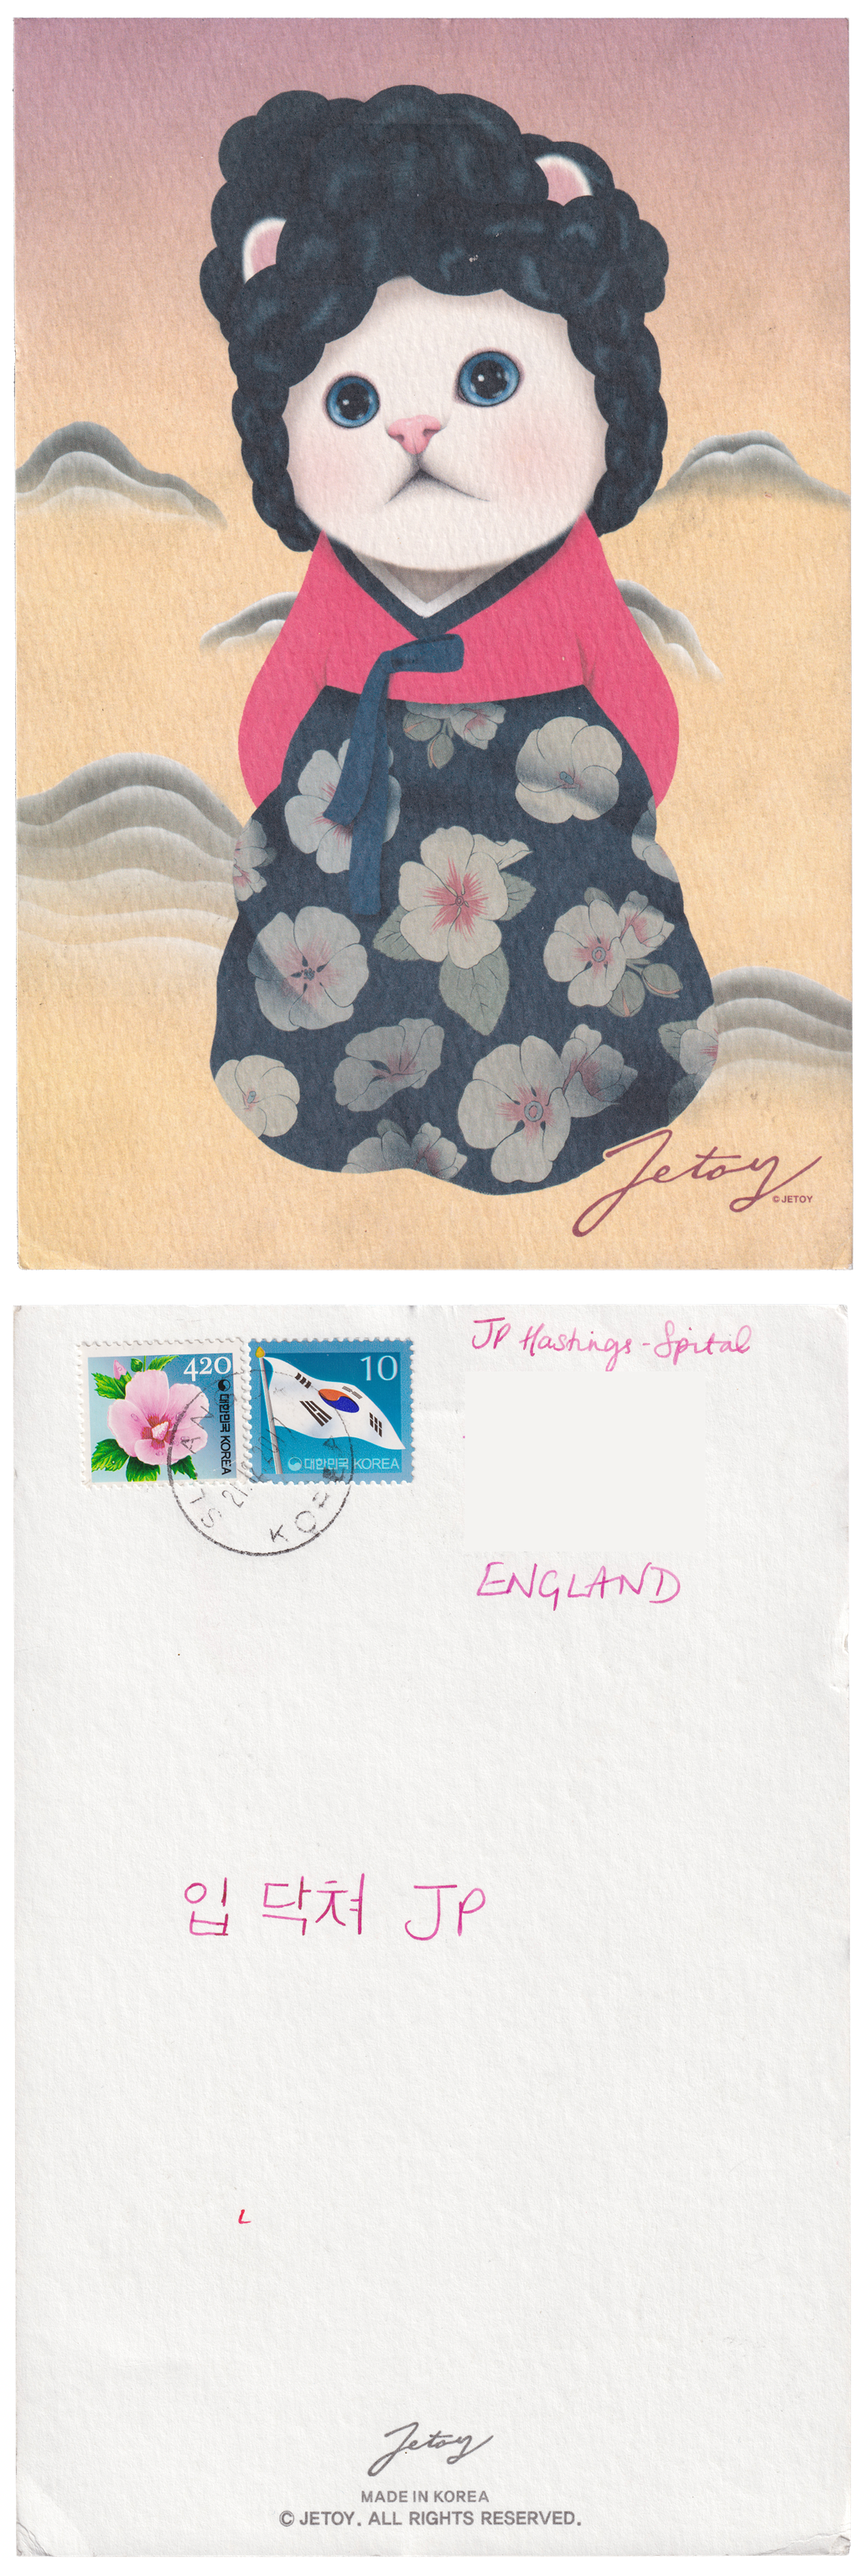
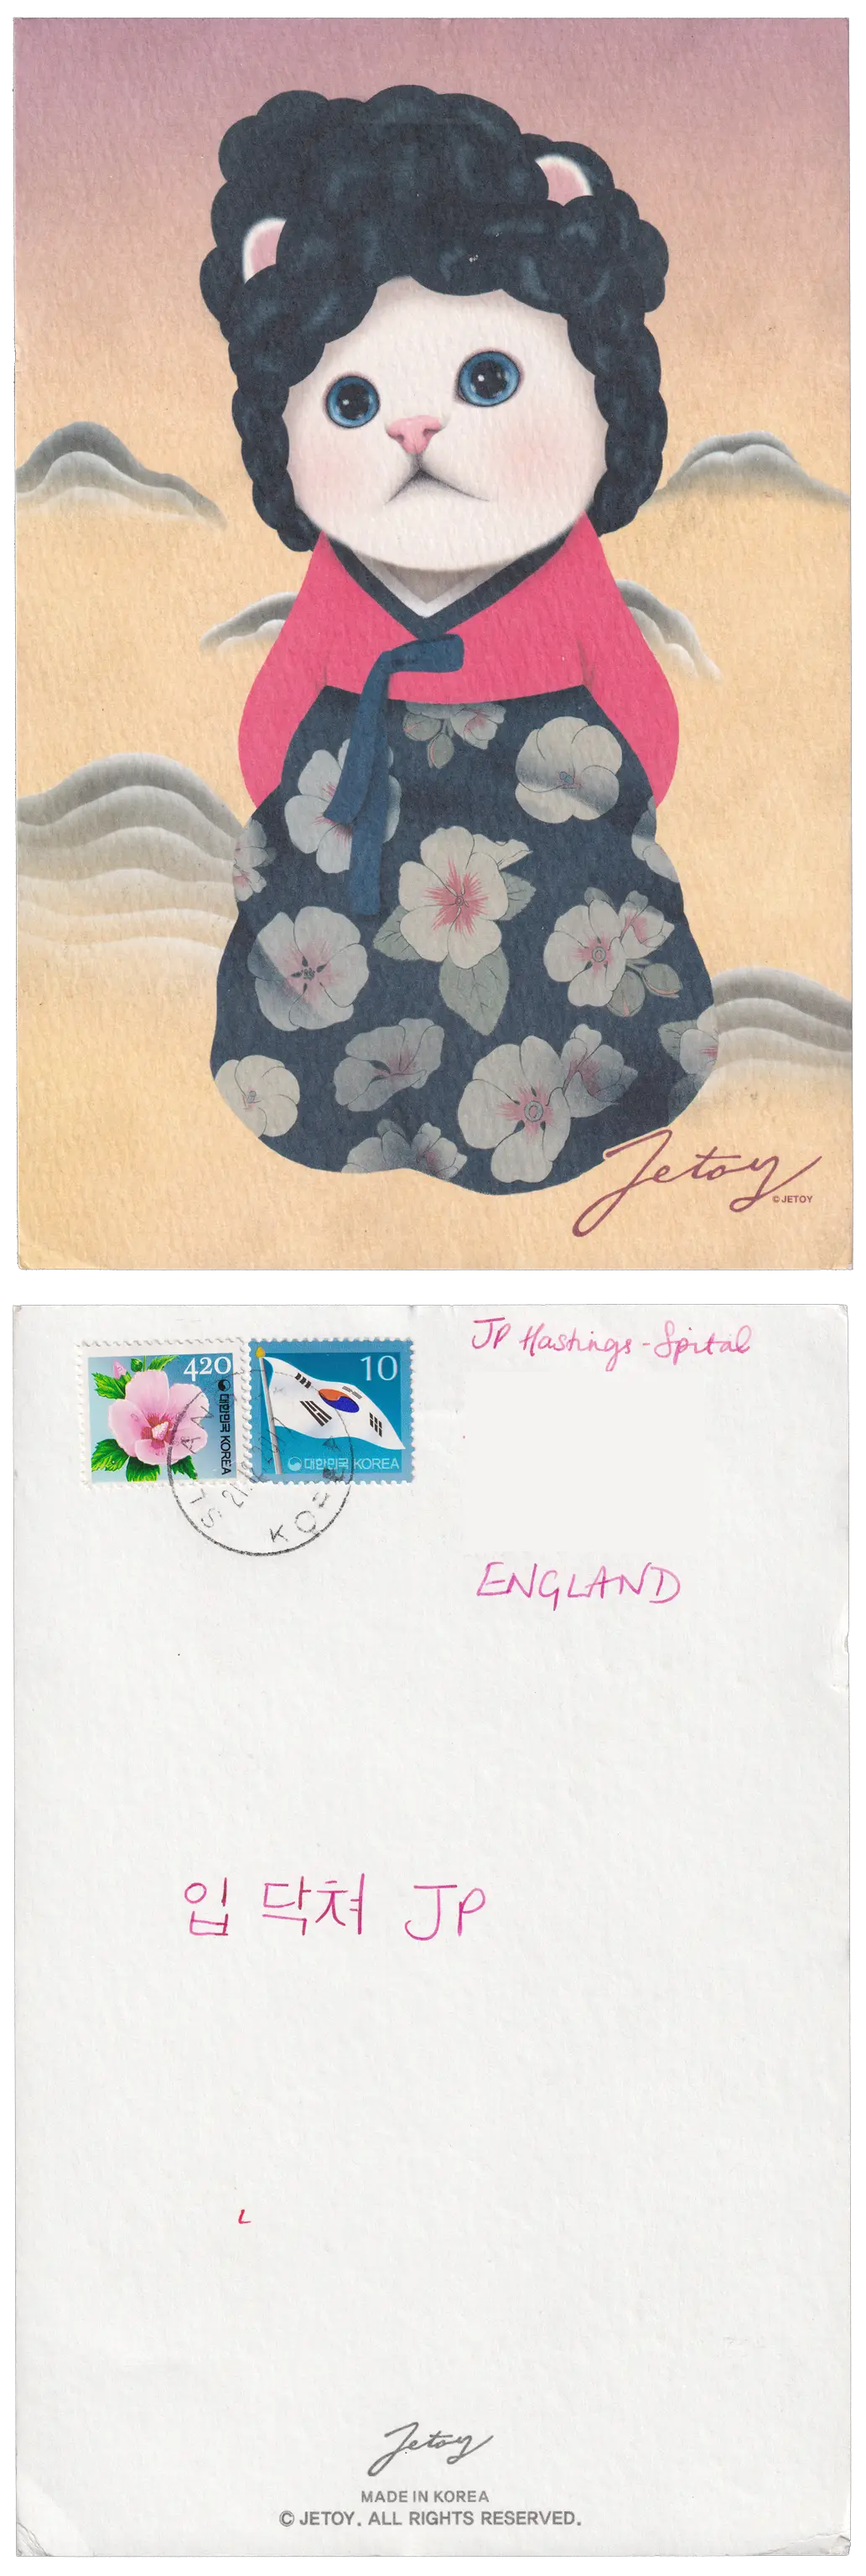
fix: turned off accidental lossless webp
The postcards tool was accidentally creating lossless webP images, which were multiple megabytes each. This reduces them to 70% accuracy, which is plenty good enough for the internet, and reduces their size to under half a MB each.

Changed region(s): [[0.2478, 0.5312, 0.3098, 0.5625], [0.1239, 0.5312, 0.1549, 0.5625]]

diff --git a/static/shutup.css b/static/shutup.css
@@ -256,3 +256,9 @@ input:checked ~ figcaption .title {
 [lang="zh-CN"]::after { content: '🇨🇳' }
 [lang="zh-SG"]::after { content: '🇸🇬/🇨🇳' }
 [lang="zh-TW"]::after { content: '🇹🇼' }
+
+a,span {
+  img[src$=".svg"] {
+    height: 1em;
+  }
+}

diff --git a/main.go b/main.go
@@ -41,6 +41,7 @@ func main() {
 		Countries: make(mapping.Countries),
 	}
 	toCopy := []string{
+		"static/ar.svg",
 		"static/postcard.css",
 		"static/shutup.css",
 		"static/bg-light.png",
